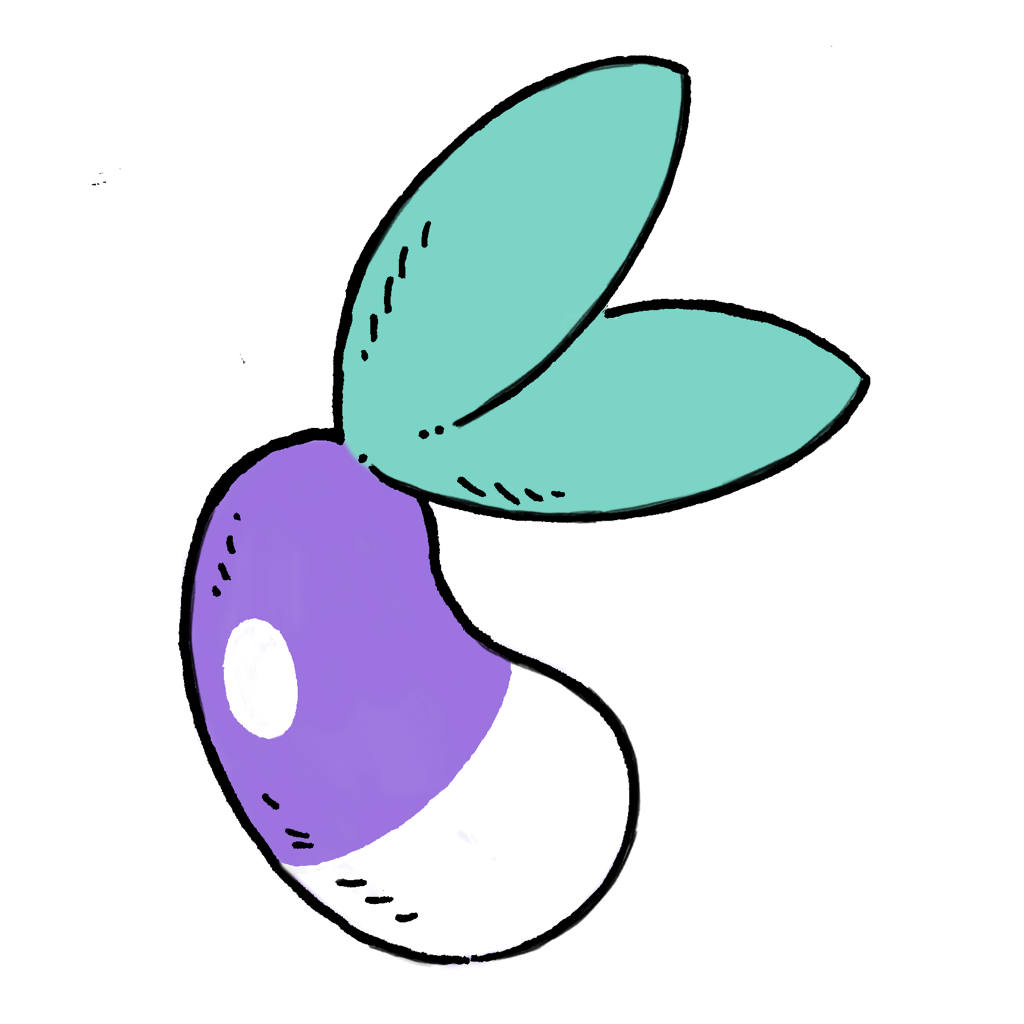
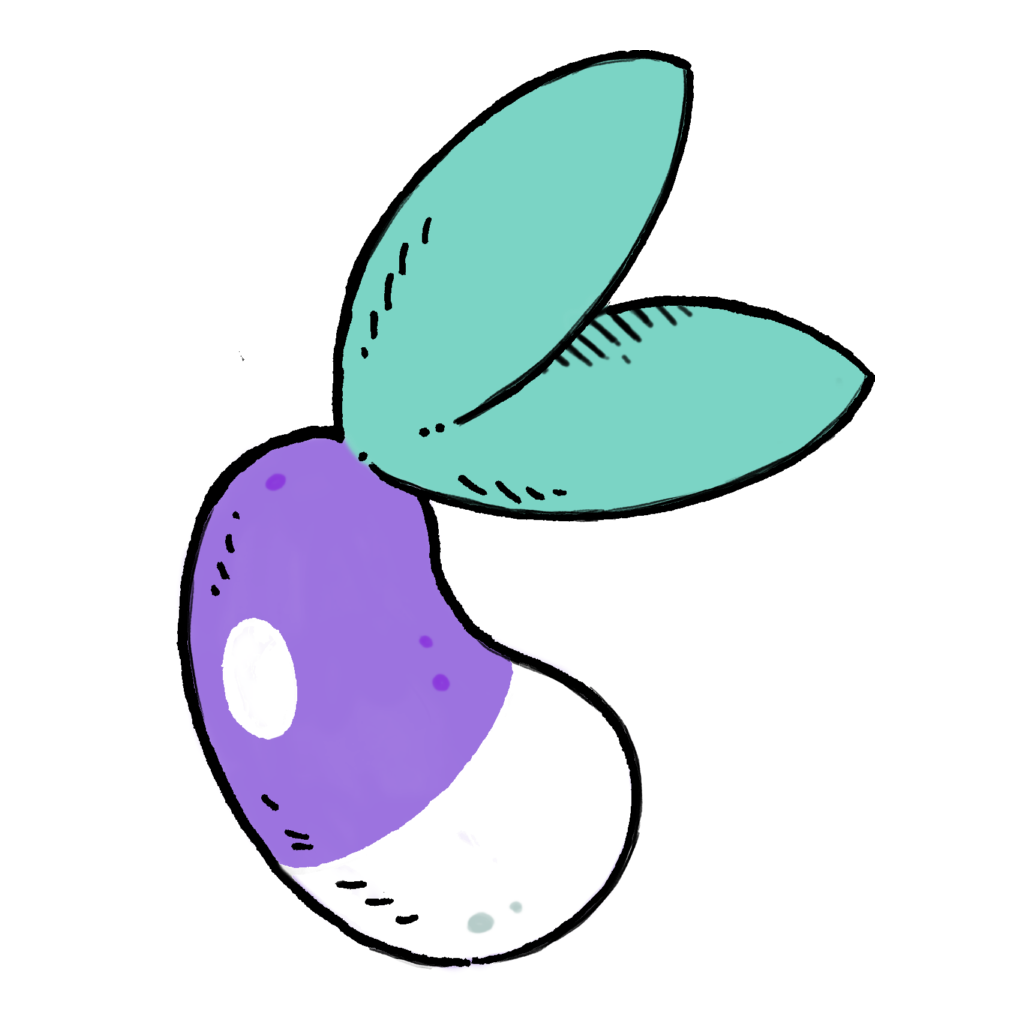
Added all mascots

diff --git a/site/nasu.html b/site/nasu.html
@@ -4,14 +4,20 @@
 <header><a href="home.html"><img alt="XXIIVV" src="../media/icon/logo.svg"></a></header>
 <nav><ul><li><a href="roms.html" class="parent">roms</a></li><li><a href="tools.html">tools</a></li><li><a href="libraries.html">libraries</a></li><li><a href="formats.html">formats</a></li><li><a href="games.html">games</a></li><li><a href="toys.html">toys</a></li><li><a href="mobile.html">mobile</a></li><li><a href="unreleased.html">unreleased</a></li></ul><ul><li><a href="left.html">left</a></li><li><a href="turye.html">turye</a></li><li><a href="dexe.html">dexe</a></li><li><a href="noodle.html">noodle</a></li><li><a href="nasu.html" class="self">nasu</a></li><li><a href="cccc.html">cccc</a></li><li><a href="nebu.html">nebu</a></li><li><a href="adelie.html">adelie</a></li><li><a href="bouc.html">bouc</a></li></ul><ul></ul></nav><main><figure><img alt="Nasu Uxn Release" src="../media/diary/747.jpg"/><figcaption>Nasu Uxn Release</figcaption></figure><h2>Nasu is a spritesheet editor.</h2>
 
+<img src='../media/generic/nasu.idle.png' style='width: 240px;float:right'/>
+
 <p><b>Nasu</b> is a spritesheet editor created to help with the design of interfaces and assets for various <a href='famicom.html'>Famicom</a> projects. Nasu can import/export in the <a href='chr_format.html'>.chr file format</a>, copy/paste suing the <a href='snarf.html'>snarf buffer</a>, it can also generate <a href='theme.html'>theme</a> files.</p>
 
-<p>As of 2021, the application is distributed as a <a href='roms.html'>rom</a>(4kb) for the <a href='uxn.html'>Uxn</a> system, you can download the assembled rom <a href='https://hundredrabbits.itch.io/nasu' target='_blank'>here</a>, or find the source code <a href='https://git.sr.ht/~rabbits/nasu' target='_blank'>here</a>.</p>
+<p>As of 2021, the application is distributed as a <a href='roms.html'>rom</a> for the <a href='varvara.html'>Varvara</a> system, you can download the assembled rom <a href='https://hundredrabbits.itch.io/nasu' target='_blank'>here</a>, or find the source code <a href='https://git.sr.ht/~rabbits/nasu' target='_blank'>here</a>.</p>
 
 <ul>
 	<li><a href='https://git.sr.ht/~rabbits/nasu' target='_blank'>view source</a></li>
-	<li><a href='https://hundredrabbits.itch.io/nasu' target='_blank'>download rom</a></li>
+	<li><a href='https://hundredrabbits.itch.io/nasu' target='_blank'>download rom</a>, 8kb</li>
+	<li><a href='https://100r.co/site/uxn.html' target='_blank'>download emulator</a>, 80kb</li>
 </ul>
+
+<img src='../media/generic/nasu.turnip.png' width='120'/>
+
 <figure><img alt="Nasu Uxn Prototype II" src="../media/diary/746.jpg"/><figcaption>Nasu Uxn Prototype II</figcaption></figure><figure><img alt="Nasu Uxn Prototype I" src="../media/diary/743.jpg"/><figcaption>Nasu Uxn Prototype I</figcaption></figure><figure><img alt="Nasu Original Version" src="../media/diary/719.jpg"/><figcaption>Nasu Original Version</figcaption></figure><ul><li><code>15J11</code> &mdash; Nasu Uxn Release</li><li><code>14S13</code> &mdash; Nasu Desktop Release</li><li><code>14C05</code> &mdash; Nasu Original Version</li></ul><p><b>Incoming</b>: <a href="roms.html" class="parent">roms</a> <a href="dito.html">dito</a> <a href="graf3dscene.html">graf3dscene</a> <a href="chr_format.html">chr format</a> <a href="nmt_format.html">nmt format</a> <a href="donsol_famicom.html">donsol famicom</a> <a href="yufo.html">yufo</a> </p></main>
 <footer><a href="https://creativecommons.org/licenses/by-nc-sa/4.0" target="_blank"><img src="../media/icon/cc.svg" alt="CreativeCommons"/></a> <a href="https://webring.xxiivv.com/" target="_blank"><img src="../media/icon/webring.svg" alt="Webring"/></a> <a href="https://merveilles.town/@neauoire" rel="me" target="_blank"><img src="../media/icon/merveilles.svg" alt="Merveilles"/></a> <a href="ethics.html"><img src="../media/icon/dreipfeile.svg" alt="NoNazis!"/></a> <a href="uxn.html"><img src="../media/icon/uxn.svg" alt="UxnPowered"/></a> <span><a href="devine_lu_linvega.html">Devine Lu Linvega</a> &copy; 2022 &mdash; <a href="about.html">BY-NC-SA 4.0</a></span></footer>
 </body></html>

diff --git a/site/left.html b/site/left.html
@@ -4,16 +4,17 @@
 <header><a href="home.html"><img alt="XXIIVV" src="../media/icon/logo.svg"></a></header>
 <nav><ul><li><a href="roms.html" class="parent">roms</a></li><li><a href="tools.html">tools</a></li><li><a href="libraries.html">libraries</a></li><li><a href="formats.html">formats</a></li><li><a href="games.html">games</a></li><li><a href="toys.html">toys</a></li><li><a href="mobile.html">mobile</a></li><li><a href="unreleased.html">unreleased</a></li></ul><ul><li><a href="left.html" class="self">left</a></li><li><a href="turye.html">turye</a></li><li><a href="dexe.html">dexe</a></li><li><a href="noodle.html">noodle</a></li><li><a href="nasu.html">nasu</a></li><li><a href="cccc.html">cccc</a></li><li><a href="nebu.html">nebu</a></li><li><a href="adelie.html">adelie</a></li><li><a href="bouc.html">bouc</a></li></ul><ul></ul></nav><main><figure><img alt="Left Uxn Release" src="../media/diary/322.jpg"/><figcaption>Left Uxn Release</figcaption></figure><h2>Left is a text editor.</h2>
 
+<img src='../media/generic/left.idle.png' style='width: 240px;float:right'/>
+
 <p>Left is <b>graphical plain-text editor</b> inspired by <a href='plan9.html'>Plan9</a>'s <a href='acme.html'>Acme</a> and <a href='pascal.html'>THINK Pascal</a>. It supports <a href='uxntal.html'>Uxntal</a> syntax highlight/navigation, proportional text, directory listing and the <a href='snarf.html'>snarf</a> buffer. The alt key is used as a <a href='https://www.youtube.com/watch?v=o_TlE_U_X3c' target='_blank'>LEAP key</a> to navigate the body of the text.</p>
 
-<p>Left doesn't do much, but packs many useful features in a 14kb rom.</p>
+<p>Left doesn't do much, but packs many useful features in a 9kb rom.</p>
 
 <ul style="columns:2">
 	<li><kbd>ctrl+c</kbd> copy</li>
 	<li><kbd>ctrl+v</kbd> paste</li>
 	<li><kbd>ctrl+x</kbd> cut</li>
 	<li><kbd>ctrl+h</kbd> toggle syntax</li>
-	<li><kbd>ctrl+f</kbd> toggle font</li>
 	<li><kbd>ctrl+d</kbd> toggle direction</li>
 </ul>
 
@@ -55,10 +56,15 @@
 </ul>
 
 <ul>
+	<li><a href='https://100r.co/site/left.html' target='_blank'>read manual</a></li>
 	<li><a href='https://git.sr.ht/~rabbits/left' target='_blank'>view source</a></li>
-	<li><a href='http://hundredrabbits.itch.io/Left' target='_blank'>download rom</a></li>
 	<li><a href='https://texteditors.org/cgi-bin/wiki.pl?Left' target='_blank'>wiki entry</a></li>
+	<li><a href='http://hundredrabbits.itch.io/Left' target='_blank'>download rom</a>, 9kb</li>
+	<li><a href='https://100r.co/site/uxn.html' target='_blank'>download emulator</a>, 80kb</li>
 </ul>
+
+<img src='../media/generic/left.turnip.png' width='120'/>
+
 <figure><img alt="Left, ANSI C version" src="../media/diary/736.jpg"/><figcaption>Left, ANSI C version</figcaption></figure><figure><img alt="Left, Electron version" src="../media/diary/499.jpg"/><figcaption>Left, Electron version</figcaption></figure><ul><li><code>15L08</code> &mdash; Left Uxn Release</li><li><code>15A09</code> &mdash; Left Desktop Release</li><li><code>11R08</code> &mdash; Left Web Release</li></ul><p><b>Incoming</b>: <a href="roms.html" class="parent">roms</a> <a href="gly_format.html">gly format</a> <a href="ufx_format.html">ufx format</a> <a href="devlog.html">devlog</a> </p></main>
 <footer><a href="https://creativecommons.org/licenses/by-nc-sa/4.0" target="_blank"><img src="../media/icon/cc.svg" alt="CreativeCommons"/></a> <a href="https://webring.xxiivv.com/" target="_blank"><img src="../media/icon/webring.svg" alt="Webring"/></a> <a href="https://merveilles.town/@neauoire" rel="me" target="_blank"><img src="../media/icon/merveilles.svg" alt="Merveilles"/></a> <a href="ethics.html"><img src="../media/icon/dreipfeile.svg" alt="NoNazis!"/></a> <a href="uxn.html"><img src="../media/icon/uxn.svg" alt="UxnPowered"/></a> <span><a href="devine_lu_linvega.html">Devine Lu Linvega</a> &copy; 2022 &mdash; <a href="about.html">BY-NC-SA 4.0</a></span></footer>
 </body></html>

diff --git a/site/orca.html b/site/orca.html
@@ -4,6 +4,8 @@
 <header><a href="home.html"><img alt="XXIIVV" src="../media/icon/logo.svg"></a></header>
 <nav><ul><li><a href="paper_computing.html">paper computing</a></li><li><a href="operating_systems.html">operating systems</a></li><li><a href="programming.html">programming</a></li><li><a href="virtual_machines.html" class="parent">virtual machines</a></li><li><a href="cellular_automata.html">cellular automata</a></li><li><a href="fractals.html">fractals</a></li></ul><ul><li><a href="oisc.html">oisc</a></li><li><a href="brainfuck.html">brainfuck</a></li><li><a href="gyo.html">gyo</a></li><li><a href="chip8.html">chip8</a></li><li><a href="turquoise.html">turquoise</a></li><li><a href="uxn.html">uxn</a></li><li><a href="orca.html" class="self">orca</a></li></ul><ul><li><a href="orca_reference.html">orca reference</a></li><li><a href="orca_tutorial.html">orca tutorial</a></li></ul></nav><main><figure><img alt="Orca x Dotgrid" src="../media/diary/582.jpg"/><figcaption>Orca x Dotgrid</figcaption></figure><h2>Orca is a livecoding playground.</h2>
 
+<img src='../media/generic/orca.hello.png' style='width: 240px;float:right'/>
+
 <p>Orca is a two-dimensional <a href='https://esolangs.org/wiki/Esoteric_programming_language' target='_blank'>esoteric programming language</a> in which <b>every letter of the alphabet is an operator</b>, where lowercase letters operate on bang, uppercase letters operate each frame. </p>
 
 <p>If you wish to learn how to use Orca, watch a <a href='https://www.youtube.com/watch?v=ktcWOLeWP-g' target='_blank'>tutorial</a> or ask your questions in the <a href='https://llllllll.co/t/orca-live-coding-tool/17689' target='_blank'>forum</a>.</p>
@@ -14,12 +16,21 @@
 <cite>Ivan Reese, <a href='https://futureofcoding.org/episodes/045' target='_blank'>The Future Of Coding</a></cite>
 
 <ul>
-  <li><a href='https://hundredrabbits.itch.io/orca' target='_blank'>desktop version</a></li>
-  <li><a href='https://git.sr.ht/~rabbits/orca-toy' target='_blank'>uxn version</a></li>
+	<li><a href='https://100r.co/site/left.html' target='_blank'>read manual</a></li>
+	<li><a href='https://git.sr.ht/~rabbits/left' target='_blank'>view source</a></li>
+	<li><a href='https://hundredrabbits.itch.io/orca' target='_blank'>download rom</a>, 11kb</li>
+	<li><a href='https://100r.co/site/uxn.html' target='_blank'>download emulator</a>, 80kb</li>
+</ul>
+
+<h3>Other versions</h3>
+<ul>
 	<li><a href='https://git.sr.ht/~rabbits/orca' target='_blank'>terminal version</a></li>
 	<li><a href='https://hundredrabbits.github.io/Orca' target='_blank'>browser version</a></li>
 	<li><a href='https://llllllll.co/t/orca/22492' target='_blank'>norns version</a></li>
 </ul>
+
+<img src='../media/generic/orca.turnip.png' width='120'/>
+
 <h2>The Orca operations Manual</h2>
 
 <p>The base operators are present in every version of Orca, no matter the platform:</p>

diff --git a/site/uxn.html b/site/uxn.html
@@ -50,6 +50,6 @@
 	<li><a href='https://github.com/hundredrabbits/awesome-uxn' target='_blank'>community projects</a></li>
 	<li><a href='https://lists.sr.ht/~rabbits/uxn' target='_blank'>mailing list</a></li>
 </ul>
-<figure><img alt="The Sound Of Plumpkins" src="../media/diary/776.jpg"/><figcaption><a href="varvara.html">varvara</a> &mdash; The Sound Of Plumpkins</figcaption></figure><ul><li><code>15B13</code> &mdash; Uxn is born!</li></ul><p><b>Incoming</b>: <a href="dexe.html">dexe</a> <a href="nasu.html">nasu</a> <a href="tools.html">tools</a> <a href="ufx_format.html">ufx format</a> <a href="markl.html">markl</a> <a href="assembly.html">assembly</a> <a href="forth.html">forth</a> <a href="drifblim.html">drifblim</a> <a href="varvara.html">varvara</a> <a href="macintosh.html">macintosh</a> <a href="playdate.html">playdate</a> <a href="devlog.html">devlog</a> <a href="hundred_rabbits.html">hundred rabbits</a> </p></main>
+<figure><img alt="The Sound Of Plumpkins" src="../media/diary/776.jpg"/><figcaption><a href="varvara.html">varvara</a> &mdash; The Sound Of Plumpkins</figcaption></figure><ul><li><code>15B13</code> &mdash; Uxn is born!</li></ul><p><b>Incoming</b>: <a href="dexe.html">dexe</a> <a href="tools.html">tools</a> <a href="ufx_format.html">ufx format</a> <a href="markl.html">markl</a> <a href="assembly.html">assembly</a> <a href="forth.html">forth</a> <a href="drifblim.html">drifblim</a> <a href="varvara.html">varvara</a> <a href="macintosh.html">macintosh</a> <a href="playdate.html">playdate</a> <a href="devlog.html">devlog</a> <a href="hundred_rabbits.html">hundred rabbits</a> </p></main>
 <footer><a href="https://creativecommons.org/licenses/by-nc-sa/4.0" target="_blank"><img src="../media/icon/cc.svg" alt="CreativeCommons"/></a> <a href="https://webring.xxiivv.com/" target="_blank"><img src="../media/icon/webring.svg" alt="Webring"/></a> <a href="https://merveilles.town/@neauoire" rel="me" target="_blank"><img src="../media/icon/merveilles.svg" alt="Merveilles"/></a> <a href="ethics.html"><img src="../media/icon/dreipfeile.svg" alt="NoNazis!"/></a> <a href="uxn.html"><img src="../media/icon/uxn.svg" alt="UxnPowered"/></a> <span><a href="devine_lu_linvega.html">Devine Lu Linvega</a> &copy; 2022 &mdash; <a href="about.html">BY-NC-SA 4.0</a></span></footer>
 </body></html>

diff --git a/site/varvara.html b/site/varvara.html
@@ -386,6 +386,6 @@ code.button { background: #000; color: white; font-size: smaller; display: inlin
 </style>
 
 <img src='../media/identity/uxn64.png' />
-<ul></ul><p><b>Incoming</b>: <a href="donsol.html">donsol</a> <a href="roms.html">roms</a> <a href="noodle.html">noodle</a> <a href="nebu.html">nebu</a> <a href="adelie.html">adelie</a> <a href="icn_format.html">icn format</a> <a href="chr_format.html">chr format</a> <a href="gly_format.html">gly format</a> <a href="ufx_format.html">ufx format</a> <a href="tga_format.html">tga format</a> <a href="paradise.html">paradise</a> <a href="potato.html">potato</a> <a href="basic.html">basic</a> <a href="basic.html">basic</a> <a href="chip8.html">chip8</a> <a href="uxn.html" class="parent">uxn</a> <a href="uxntal.html">uxntal</a> <a href="devlog.html">devlog</a> <a href="computer.html">computer</a> </p></main>
+<ul></ul><p><b>Incoming</b>: <a href="donsol.html">donsol</a> <a href="roms.html">roms</a> <a href="noodle.html">noodle</a> <a href="nasu.html">nasu</a> <a href="nebu.html">nebu</a> <a href="adelie.html">adelie</a> <a href="icn_format.html">icn format</a> <a href="chr_format.html">chr format</a> <a href="gly_format.html">gly format</a> <a href="ufx_format.html">ufx format</a> <a href="tga_format.html">tga format</a> <a href="paradise.html">paradise</a> <a href="potato.html">potato</a> <a href="basic.html">basic</a> <a href="basic.html">basic</a> <a href="chip8.html">chip8</a> <a href="uxn.html" class="parent">uxn</a> <a href="uxntal.html">uxntal</a> <a href="devlog.html">devlog</a> <a href="computer.html">computer</a> </p></main>
 <footer><a href="https://creativecommons.org/licenses/by-nc-sa/4.0" target="_blank"><img src="../media/icon/cc.svg" alt="CreativeCommons"/></a> <a href="https://webring.xxiivv.com/" target="_blank"><img src="../media/icon/webring.svg" alt="Webring"/></a> <a href="https://merveilles.town/@neauoire" rel="me" target="_blank"><img src="../media/icon/merveilles.svg" alt="Merveilles"/></a> <a href="ethics.html"><img src="../media/icon/dreipfeile.svg" alt="NoNazis!"/></a> <a href="uxn.html"><img src="../media/icon/uxn.svg" alt="UxnPowered"/></a> <span><a href="devine_lu_linvega.html">Devine Lu Linvega</a> &copy; 2022 &mdash; <a href="about.html">BY-NC-SA 4.0</a></span></footer>
 </body></html>

diff --git a/src/htm/orca.htm b/src/htm/orca.htm
@@ -1,5 +1,7 @@
 <h2>Orca is a livecoding playground.</h2>
 
+<img src='../media/generic/orca.hello.png' style='width: 240px;float:right'/>
+
 <p>Orca is a two-dimensional <a href='https://esolangs.org/wiki/Esoteric_programming_language' target='_blank'>esoteric programming language</a> in which <b>every letter of the alphabet is an operator</b>, where lowercase letters operate on bang, uppercase letters operate each frame. </p>
 
 <p>If you wish to learn how to use Orca, watch a <a href='https://www.youtube.com/watch?v=ktcWOLeWP-g' target='_blank'>tutorial</a> or ask your questions in the <a href='https://llllllll.co/t/orca-live-coding-tool/17689' target='_blank'>forum</a>.</p>
@@ -10,9 +12,18 @@
 <cite>Ivan Reese, <a href='https://futureofcoding.org/episodes/045' target='_blank'>The Future Of Coding</a></cite>
 
 <ul>
-  <li><a href='https://hundredrabbits.itch.io/orca' target='_blank'>desktop version</a></li>
-  <li><a href='https://git.sr.ht/~rabbits/orca-toy' target='_blank'>uxn version</a></li>
+	<li><a href='https://100r.co/site/left.html' target='_blank'>read manual</a></li>
+	<li><a href='https://git.sr.ht/~rabbits/left' target='_blank'>view source</a></li>
+	<li><a href='https://hundredrabbits.itch.io/orca' target='_blank'>download rom</a>, 11kb</li>
+	<li><a href='https://100r.co/site/uxn.html' target='_blank'>download emulator</a>, 80kb</li>
+</ul>
+
+<h3>Other versions</h3>
+<ul>
 	<li><a href='https://git.sr.ht/~rabbits/orca' target='_blank'>terminal version</a></li>
 	<li><a href='https://hundredrabbits.github.io/Orca' target='_blank'>browser version</a></li>
 	<li><a href='https://llllllll.co/t/orca/22492' target='_blank'>norns version</a></li>
 </ul>
+
+<img src='../media/generic/orca.turnip.png' width='120'/>
+

diff --git a/site/noodle.html b/site/noodle.html
@@ -13,10 +13,11 @@
 <ul>
 	<li><a href='https://100r.co/site/noodle.html' target='_blank'>read manual</a></li>
 	<li><a href='https://git.sr.ht/~rabbits/noodle' target='_blank'>view source</a></li>
-	<li><a href='https://hundredrabbits.itch.io/noodle' target='_blank'>download rom</a>, 12kb</li>
+	<li><a href='https://hundredrabbits.itch.io/noodle' target='_blank'>download rom</a>, 9kb</li>
 	<li><a href='https://100r.co/site/uxn.html' target='_blank'>download emulator</a>, 80kb</li>
 </ul>
-<img src='../media/generic/noodle.png'/>
+
+<img src='../media/generic/noodle.turnip.png' width='120'/>
 
 <figure><img alt="Noodle in Uxn" src="../media/diary/745.jpg"/><figcaption>Noodle in Uxn</figcaption></figure><ul><li><code>15K03</code> &mdash; Noodle Uxn Release</li></ul><p><b>Incoming</b>: <a href="roms.html" class="parent">roms</a> <a href="moogle.html">moogle</a> <a href="icn_format.html">icn format</a> <a href="gly_format.html">gly format</a> <a href="visual_faqs.html">visual faqs</a> </p></main>
 <footer><a href="https://creativecommons.org/licenses/by-nc-sa/4.0" target="_blank"><img src="../media/icon/cc.svg" alt="CreativeCommons"/></a> <a href="https://webring.xxiivv.com/" target="_blank"><img src="../media/icon/webring.svg" alt="Webring"/></a> <a href="https://merveilles.town/@neauoire" rel="me" target="_blank"><img src="../media/icon/merveilles.svg" alt="Merveilles"/></a> <a href="ethics.html"><img src="../media/icon/dreipfeile.svg" alt="NoNazis!"/></a> <a href="uxn.html"><img src="../media/icon/uxn.svg" alt="UxnPowered"/></a> <span><a href="devine_lu_linvega.html">Devine Lu Linvega</a> &copy; 2022 &mdash; <a href="about.html">BY-NC-SA 4.0</a></span></footer>

diff --git a/src/htm/left.htm b/src/htm/left.htm
@@ -1,15 +1,16 @@
 <h2>Left is a text editor.</h2>
 
+<img src='../media/generic/left.idle.png' style='width: 240px;float:right'/>
+
 <p>Left is <b>graphical plain-text editor</b> inspired by <a href='plan9.html'>Plan9</a>'s <a href='acme.html'>Acme</a> and <a href='pascal.html'>THINK Pascal</a>. It supports <a href='uxntal.html'>Uxntal</a> syntax highlight/navigation, proportional text, directory listing and the <a href='snarf.html'>snarf</a> buffer. The alt key is used as a <a href='https://www.youtube.com/watch?v=o_TlE_U_X3c' target='_blank'>LEAP key</a> to navigate the body of the text.</p>
 
-<p>Left doesn't do much, but packs many useful features in a 14kb rom.</p>
+<p>Left doesn't do much, but packs many useful features in a 9kb rom.</p>
 
 <ul style="columns:2">
 	<li><kbd>ctrl+c</kbd> copy</li>
 	<li><kbd>ctrl+v</kbd> paste</li>
 	<li><kbd>ctrl+x</kbd> cut</li>
 	<li><kbd>ctrl+h</kbd> toggle syntax</li>
-	<li><kbd>ctrl+f</kbd> toggle font</li>
 	<li><kbd>ctrl+d</kbd> toggle direction</li>
 </ul>
 
@@ -51,7 +52,12 @@
 </ul>
 
 <ul>
+	<li><a href='https://100r.co/site/left.html' target='_blank'>read manual</a></li>
 	<li><a href='https://git.sr.ht/~rabbits/left' target='_blank'>view source</a></li>
-	<li><a href='http://hundredrabbits.itch.io/Left' target='_blank'>download rom</a></li>
 	<li><a href='https://texteditors.org/cgi-bin/wiki.pl?Left' target='_blank'>wiki entry</a></li>
+	<li><a href='http://hundredrabbits.itch.io/Left' target='_blank'>download rom</a>, 9kb</li>
+	<li><a href='https://100r.co/site/uxn.html' target='_blank'>download emulator</a>, 80kb</li>
 </ul>
+
+<img src='../media/generic/left.turnip.png' width='120'/>
+

diff --git a/src/htm/nasu.htm b/src/htm/nasu.htm
@@ -1,10 +1,16 @@
 <h2>Nasu is a spritesheet editor.</h2>
 
+<img src='../media/generic/nasu.idle.png' style='width: 240px;float:right'/>
+
 <p><b>Nasu</b> is a spritesheet editor created to help with the design of interfaces and assets for various <a href='famicom.html'>Famicom</a> projects. Nasu can import/export in the <a href='chr_format.html'>.chr file format</a>, copy/paste suing the <a href='snarf.html'>snarf buffer</a>, it can also generate <a href='theme.html'>theme</a> files.</p>
 
-<p>As of 2021, the application is distributed as a <a href='roms.html'>rom</a>(4kb) for the <a href='uxn.html'>Uxn</a> system, you can download the assembled rom <a href='https://hundredrabbits.itch.io/nasu' target='_blank'>here</a>, or find the source code <a href='https://git.sr.ht/~rabbits/nasu' target='_blank'>here</a>.</p>
+<p>As of 2021, the application is distributed as a <a href='roms.html'>rom</a> for the <a href='varvara.html'>Varvara</a> system, you can download the assembled rom <a href='https://hundredrabbits.itch.io/nasu' target='_blank'>here</a>, or find the source code <a href='https://git.sr.ht/~rabbits/nasu' target='_blank'>here</a>.</p>
 
 <ul>
 	<li><a href='https://git.sr.ht/~rabbits/nasu' target='_blank'>view source</a></li>
-	<li><a href='https://hundredrabbits.itch.io/nasu' target='_blank'>download rom</a></li>
+	<li><a href='https://hundredrabbits.itch.io/nasu' target='_blank'>download rom</a>, 8kb</li>
+	<li><a href='https://100r.co/site/uxn.html' target='_blank'>download emulator</a>, 80kb</li>
 </ul>
+
+<img src='../media/generic/nasu.turnip.png' width='120'/>
+

diff --git a/src/htm/noodle.htm b/src/htm/noodle.htm
@@ -9,8 +9,9 @@
 <ul>
 	<li><a href='https://100r.co/site/noodle.html' target='_blank'>read manual</a></li>
 	<li><a href='https://git.sr.ht/~rabbits/noodle' target='_blank'>view source</a></li>
-	<li><a href='https://hundredrabbits.itch.io/noodle' target='_blank'>download rom</a>, 12kb</li>
+	<li><a href='https://hundredrabbits.itch.io/noodle' target='_blank'>download rom</a>, 9kb</li>
 	<li><a href='https://100r.co/site/uxn.html' target='_blank'>download emulator</a>, 80kb</li>
 </ul>
-<img src='../media/generic/noodle.png'/>
+
+<img src='../media/generic/noodle.turnip.png' width='120'/>
 
